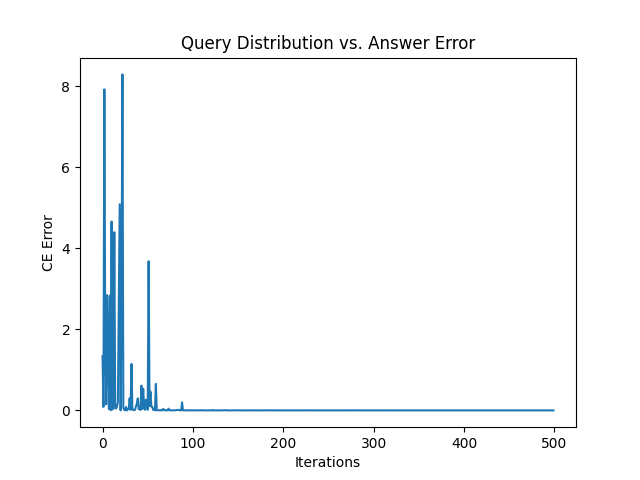
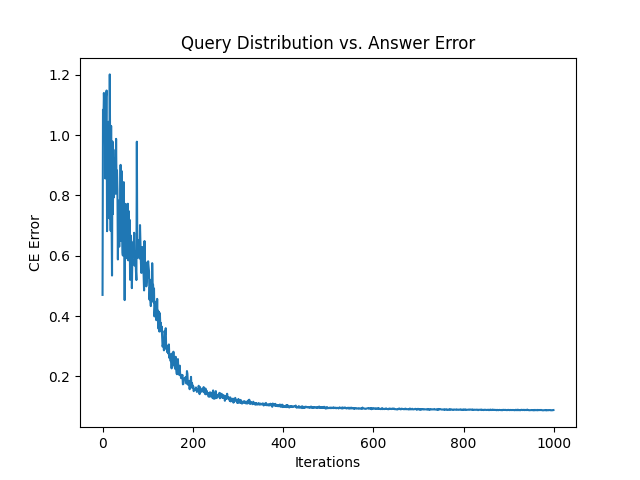
pretraining experiments (one true reward)

diff --git a/learner.py b/learner.py
@@ -39,7 +39,8 @@ class Learner:
             
         losses = []
 
-        #test if model can learn on only one true reward
+        # test if model can learn on only one true reward
+        # same reward used for testing and training
         if self.args.batchsize == 1:
             true_humans, query_seqs, answer_seqs = self.dataset.get_batch_seq(batchsize=self.args.batchsize, seqlength=self.args.sequence_length)
 
@@ -51,20 +52,24 @@ class Learner:
 
             # get latents from queries and answers
             hidden = self.encoder.init_hidden()
+            loss = 0
 
-            # manually handle hidden inputs for gru
+            # manually handle hidden inputs for gru for sequence
             for t in range(self.args.sequence_length):
                 beliefs, hidden = self.encoder(query_seqs[t, :, :], answer_seqs[t, :], hidden)
                 hidden = hidden.detach()
 
-            # compute predicted response at last timestep for each sequence
-            inputs = response_dist(self.args, query_seqs[-1, :, :], beliefs)
+                # compute predicted response at timestep for each sequence
+                inputs = response_dist(self.args, query_seqs[t, :, :], beliefs)
 
-            # get inputs and targets for cross entropy loss
-            inputs = inputs.view(-1, self.args.query_size)
-            targets = answer_seqs[-1, :].view(-1)
+                # get inputs and targets for cross entropy loss
+                inputs = inputs.view(-1, self.args.query_size)
+                targets = answer_seqs[t, :].view(-1)
 
-            loss = self.loss(inputs, targets)
+                seq_loss = self.loss(inputs, targets)
+                loss += seq_loss
+            
+            loss /= self.args.sequence_length
             loss.backward()     
             losses.append(loss.item())           
 
@@ -86,11 +91,10 @@ class Learner:
         # evaluate encoder on test batch
         if self.args.verbose:
             print("######### PRE TRAINING - EVALUATION #########")
-
-        if self.args.batchsize == 1:
-            print(true_humans[0])
             
         with torch.no_grad():
+
+            # when we're not doing a singular batch experiment, we select a different test batch
             if self.args.batchsize > 1:
                 true_humans, query_seqs, answer_seqs = self.dataset.get_batch_seq(batchsize=self.args.batchsize, seqlength=self.args.sequence_length)
 
@@ -98,6 +102,7 @@ class Learner:
             mses = []
             alignments = []
             hidden = self.encoder.init_hidden()
+
             for t in range(self.args.sequence_length):
                 beliefs, hidden = self.encoder(query_seqs[t, :, :], answer_seqs[t, :], hidden)
 
@@ -119,7 +124,10 @@ class Learner:
                 if self.args.verbose:
                     print("Query %2d: Loss = %.3f, MSE = %.3f, Alignment = %.3f" % (t, loss, mse, align))
 
-            print(beliefs[0])
+            if self.args.batchsize == 1:
+                print("Reward Comparison")
+                print("True  ", true_humans[0].data)
+                print("Belief", beliefs[0].data)
 
             # save plots for errors after pre training
             if self.args.visualize:

diff --git a/configs/gridworld.py b/configs/gridworld.py
@@ -15,7 +15,7 @@ def args(rest_args):
     parser.add_argument('--visualize', dest='visualize', action='store_true')
     parser.set_defaults(visualize=False)
 
-    parser.add_argument('--temperature', type=float, default=.9,
+    parser.add_argument('--temperature', type=float, default=1,
                         help='Boltzmann rationality temperature')
 
     ##### POLICY #####
@@ -32,7 +32,7 @@ def args(rest_args):
                         help='how many trajectories to pre-collect before training begins')
     parser.add_argument('--buffer_size', type=int, default=10000,
                         help='how many trajectories to keep in VAE buffer')
-    parser.add_argument('--pretrain_len', type=int, default=500,
+    parser.add_argument('--pretrain_len', type=int, default=1000,
                         help='how many iterations to pretrain the vae')
     parser.add_argument('--lr', type=float, default=.01)
     parser.add_argument('--batchsize', type=int, default=100,

diff --git a/models/encoder.py b/models/encoder.py
@@ -48,7 +48,11 @@ class Encoder(nn.Module):
 
     def forward(self, query, answer, hidden):
         input_query = self.fc_input_query(query)
+        input_query = F.relu(input_query)
+
         input_answer = self.fc_input_answer(answer.to(torch.float32))
+        input_answer = F.relu(input_answer)
+        
         input = torch.cat((input_query, input_answer), 1)
         output = self.fc_input(input)
         output = F.relu(output)
